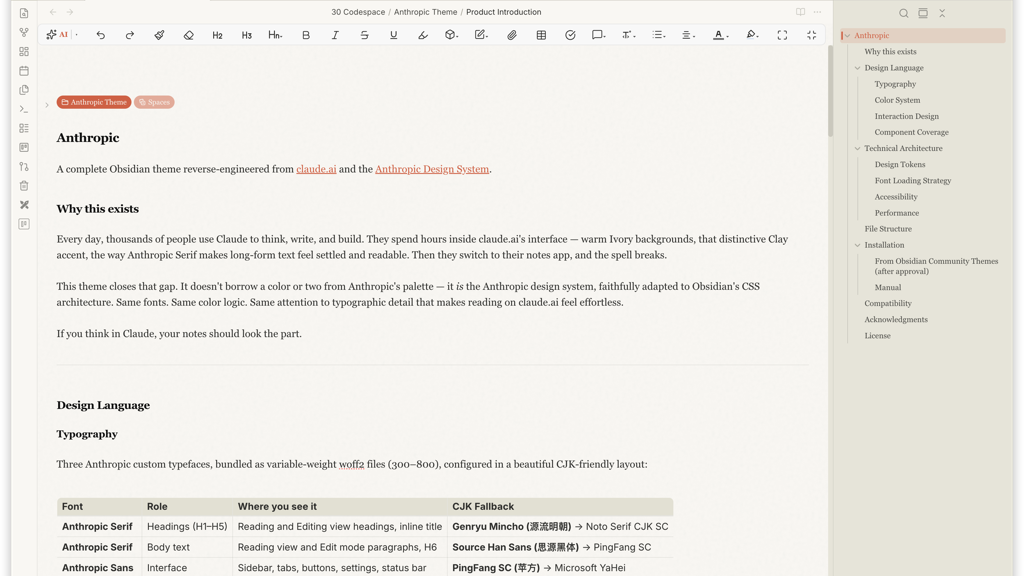
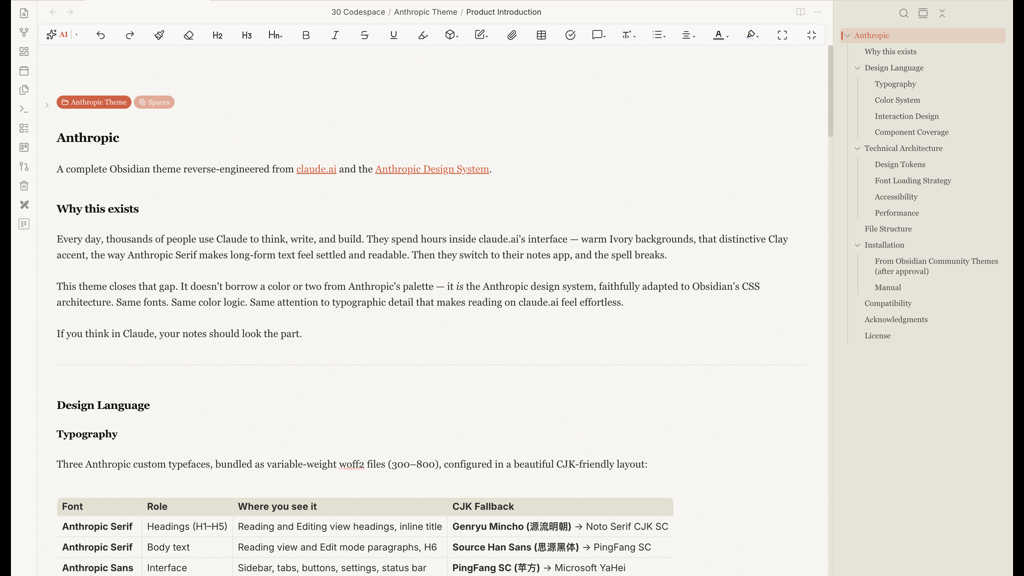
v3.5.4: Sanitise screenshot file to standard sRGB/RGB format to fix developer portal image processing crash, and bump manifest/CSS versions

Changed region(s): [[0.9688, 0.0, 1.0, 1.0], [0.0, 0.0, 0.0312, 1.0]]

diff --git a/theme.css b/theme.css
@@ -1,5 +1,5 @@
 /* ============================================================
-   Anthropic — Obsidian Theme  v3.5.3
+   Anthropic — Obsidian Theme  v3.5.4
    字体: Anthropic Sans · Anthropic Serif · Anthropic Mono
    色彩: Ivory #FAF9F5 · Slate #141413 · Clay #D97757
    ============================================================*/